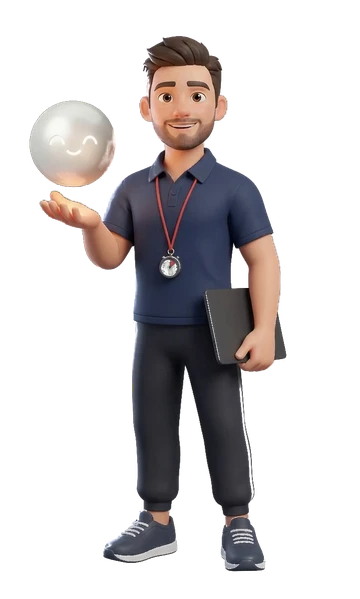
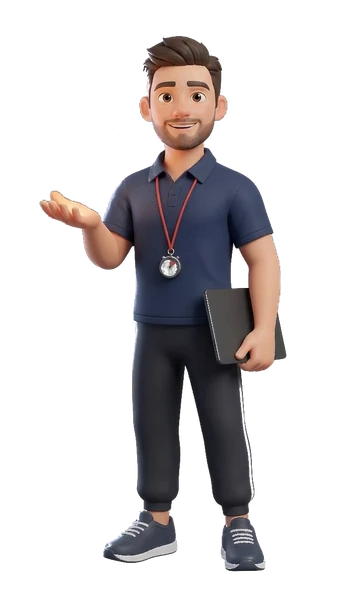
feat: Leo esce dalla pallina nel benvenuto

Changed region(s): [[0.0611, 0.1503, 0.3361, 0.3306]]

diff --git a/components/prototipo/benvenuto/LeoEsce.tsx b/components/prototipo/benvenuto/LeoEsce.tsx
@@ -1,0 +1,107 @@
+"use client";
+
+import { useEffect, useMemo, useState } from "react";
+import { motion, useReducedMotion } from "motion/react";
+import { EASE_OUT } from "@/components/ui/motion";
+import type { Passo } from "@/libs/prototipo/benvenuto";
+import { DURATA_ESCE_MS, LEO } from "./misure-leo";
+import { PallinaColorata, SlotPallina, usePallina, useDovePallina } from "./Pallina";
+import { useScena } from "./scena";
+
+// Leo esce dalla pallina (esce.webp: scintille, lampo, Leo prende colore, la pallina sale sulla sua mano),
+// poi resta in piedi nella vetrina con la pallina colorata in mano (con-pallina.webp + PallinaColorata sopra
+// quella bianca). La scena parte quando un passo chiama scena.setLeo("esce") dopo aver mandato la pallina "al centro".
+
+const ESCE = "/prototipo/coach/esce.webp";
+const FERMO = "/prototipo/coach/con-pallina.webp";
+const VOLO_MS = 950; // tempo della pallina per arrivare al centro
+
+export function LeoScena({ passo }: { passo: Passo }) {
+  const reduce = useReducedMotion();
+  const { leo, setLeo } = useScena();
+  const pallina = usePallina();
+  const dove = useDovePallina();
+  const [anim, setAnim] = useState<"attesa" | "gioca" | "fine">(leo === "fermo" ? "fine" : "attesa");
+  // indirizzo nuovo a ogni scena: la WebP animata riparte dal primo fotogramma
+  const src = useMemo(() => `${ESCE}?t=${Date.now()}`, [leo === "esce"]); // eslint-disable-line react-hooks/exhaustive-deps
+
+  // le immagini si caricano prima, così la scena parte senza attese
+  useEffect(() => {
+    for (const s of [ESCE, FERMO]) new Image().src = s;
+  }, []);
+
+  useEffect(() => {
+    if (leo === "fermo") {
+      setAnim("fine");
+      pallina.mostra({ dove: "mano" });
+      return;
+    }
+    if (leo !== "esce") return;
+    if (reduce) {
+      setLeo("fermo");
+      return;
+    }
+    const t1 = window.setTimeout(() => {
+      setAnim("gioca");
+      pallina.mostra({ dove: "nascosta" });
+    }, VOLO_MS);
+    const t2 = window.setTimeout(() => setLeo("fermo"), VOLO_MS + DURATA_ESCE_MS);
+    return () => {
+      window.clearTimeout(t1);
+      window.clearTimeout(t2);
+    };
+  }, [leo, reduce, setLeo, pallina]);
+
+  // in piedi al centro nel saluto; dal passo del marchio si sposta a destra, più piccolo, accanto al telefono
+  const largo = passo === 0 ? LEO.larghezza : 210;
+  const alto = Math.round((largo * LEO.altezza) / LEO.larghezza);
+  const inizio = LEO.pallinaInizio;
+  const fine = LEO.pallina;
+
+  if (leo === "nessuno" && dove !== "centro") return null;
+
+  return (
+    <motion.div
+      className="pointer-events-none absolute bottom-[18px]"
+      initial={false}
+      animate={{ left: passo === 0 ? "50%" : "83%", x: "-50%", width: largo, height: alto }}
+      transition={{ duration: 0.7, ease: EASE_OUT }}
+    >
+      {/* dove arriva la pallina prima che esca Leo */}
+      <SlotPallina
+        dove="centro"
+        size={Math.round(inizio.r * 2 * largo)}
+        className="absolute"
+        style={{ left: inizio.x * largo - inizio.r * largo, top: inizio.y * alto - inizio.r * largo }}
+      />
+      {anim === "gioca" && (
+        // la pallina colorata sfuma mentre parte l'animazione, che inizia con la stessa pallina (bianca) nello stesso punto
+        <motion.span
+          className="absolute z-10"
+          style={{ left: inizio.x * largo - inizio.r * largo, top: inizio.y * alto - inizio.r * largo }}
+          initial={{ opacity: 1 }}
+          animate={{ opacity: 0 }}
+          transition={{ duration: 0.45, delay: 0.1 }}
+        >
+          <PallinaColorata size={Math.round(inizio.r * 2 * largo)} />
+        </motion.span>
+      )}
+      {anim === "gioca" && (
+        // eslint-disable-next-line @next/next/no-img-element
+        <img src={src} alt="" className="leo-luce absolute inset-0 size-full select-none" draggable={false} />
+      )}
+      {anim === "fine" && (
+        <motion.div initial={{ opacity: leo === "fermo" && !reduce ? 1 : 0 }} animate={{ opacity: 1 }} className="absolute inset-0">
+          {/* eslint-disable-next-line @next/next/no-img-element */}
+          <img src={FERMO} alt="Leo, il tuo assistente" className="leo-luce absolute inset-0 size-full select-none" draggable={false} />
+          <SlotPallina
+            dove="mano"
+            size={Math.round(fine.r * 2 * largo)}
+            className="absolute"
+            style={{ left: fine.x * largo - fine.r * largo, top: fine.y * alto - fine.r * largo }}
+          />
+        </motion.div>
+      )}
+    </motion.div>
+  );
+}

diff --git a/components/prototipo/benvenuto/Benvenuto.tsx b/components/prototipo/benvenuto/Benvenuto.tsx
@@ -9,6 +9,7 @@ import { Vetrina } from "./Vetrina";
 import { PallinaProvider, SlotPallina } from "./Pallina";
 import { ScenaProvider, useScena } from "./scena";
 import { EmailFinta } from "./EmailFinta";
+import { LeoScena } from "./LeoEsce";
 import { Accesso } from "./passi/Accesso";
 import { Barra, Tasto, TestaPasso } from "./ui";
 
@@ -39,7 +40,7 @@ export function Benvenuto() {
           <div className="grid h-[min(820px,calc(100dvh-44px))] min-h-[640px] w-full max-w-[1280px] grid-cols-1 gap-[14px] rounded-[30px] bg-card p-[14px] shadow-[0_30px_70px_-40px_rgba(0,0,0,0.35)] lg:grid-cols-[46fr_54fr]">
             <div className="hidden lg:block">
               <Vetrina passo={passo}>
-                <ScenaVetrina />
+                <ScenaVetrina passo={passo} />
               </Vetrina>
             </div>
             <div className="relative flex min-h-0 flex-col">
@@ -95,10 +96,11 @@ function CambioPasso({ chiave, children }: { chiave: number; children: ReactNode
 }
 
 // Quello che i passi mettono in primo piano nella vetrina.
-function ScenaVetrina() {
+function ScenaVetrina({ passo }: { passo: Passo }) {
   const { email } = useScena();
   return (
     <>
+      <LeoScena passo={passo} />
       <SlotPallina dove="vetrina" size={72} className="absolute left-[46%] top-[63%]" />
       <EmailFinta codice={email} />
     </>

diff --git a/components/prototipo/benvenuto/passi/Accesso.tsx b/components/prototipo/benvenuto/passi/Accesso.tsx
@@ -65,6 +65,9 @@ export function Accesso({ avanti }: PropsPasso) {
     timer.current = window.setTimeout(() => {
       scena.setEmail(null);
       setFase("saluto");
+      // la pallina va al centro della vetrina e da lì esce Leo
+      pallina.mostra({ dove: "centro" });
+      scena.setLeo("esce");
     }, 1500);
   };
 
@@ -196,19 +199,25 @@ function Regola({ ok, children }: { ok: boolean; children: string }) {
 }
 
 function Saluto({ avanti }: { avanti: () => void }) {
+  const { leo } = useScena();
   return (
     <div>
       <TestaPasso titolo={`Benvenuto, ${NOME}!`} sotto="Sono Leo, il tuo assistente. In 2 minuti prepariamo insieme l'app che riceveranno i tuoi clienti." />
-      <Entra i={3} className="mt-[28px]">
-        <Tasto
-          onClick={() => {
-            playSound("confirm");
-            avanti();
-          }}
-        >
-          Iniziamo
-        </Tasto>
-      </Entra>
+      {/* "Iniziamo" arriva quando Leo è uscito dalla pallina */}
+      <div className="mt-[28px] h-[48px]">
+        {leo === "fermo" && (
+          <Entra>
+            <Tasto
+              onClick={() => {
+                playSound("confirm");
+                avanti();
+              }}
+            >
+              Iniziamo
+            </Tasto>
+          </Entra>
+        )}
+      </div>
     </div>
   );
 }

diff --git a/components/prototipo/benvenuto/Vetrina.tsx b/components/prototipo/benvenuto/Vetrina.tsx
@@ -6,6 +6,7 @@ import { CalendarClock, Wallet } from "lucide-react";
 import { EASE_OUT, formatEuro } from "@/components/ui/motion";
 import { revenue, trainer } from "@/libs/prototipo/dati-finti";
 import { useBenvenuto, type Passo } from "@/libs/prototipo/benvenuto";
+import { useScena } from "./scena";
 
 // Metà sinistra del benvenuto: la vetrina del trainer. Gradiente caldo nel suo colore con macchie sfumate
 // che si muovono piano, e sopra le schede in vetro della sua app che fluttuano (come nel riferimento
@@ -22,8 +23,9 @@ const NOTIFICHE = [
 
 export function Vetrina({ passo, children }: { passo: Passo; children?: ReactNode }) {
   const b = useBenvenuto();
-  // dal passo del marchio in poi al centro c'è il telefono: le schede si fanno da parte
-  const lato = passo >= 1;
+  // quando esce Leo, e dal passo del marchio in poi (telefono al centro), le schede si fanno da parte
+  const { leo } = useScena();
+  const lato = passo >= 1 || leo !== "nessuno";
   return (
     <div className="relative h-full overflow-hidden rounded-[22px]" style={{ background: `linear-gradient(180deg, ${tinta(10)} 0%, ${tinta(28)} 48%, ${tinta(58)} 100%)` }}>
       <Macchie />

diff --git a/components/prototipo/benvenuto/Pallina.tsx b/components/prototipo/benvenuto/Pallina.tsx
@@ -1,6 +1,6 @@
 "use client";
 
-import { createContext, ReactNode, useCallback, useContext, useMemo, useRef, useState } from "react";
+import { createContext, CSSProperties, ReactNode, useCallback, useContext, useMemo, useRef, useState } from "react";
 import { AnimatePresence, motion, useReducedMotion } from "motion/react";
 
 // La pallina di Leo, la mascotte del benvenuto (come la sfera del riferimento animazione-login.mp4):
@@ -83,7 +83,7 @@ export function PallinaColorata({ size }: { size: number }) {
 }
 
 // Segnaposto: la pallina compare qui quando il suo "dove" coincide. size = diametro in quel posto.
-export function SlotPallina({ dove, size, className, style }: { dove: DovePallina; size: number; className?: string; style?: React.CSSProperties }) {
+export function SlotPallina({ dove, size, className, style }: { dove: DovePallina; size: number; className?: string; style?: CSSProperties }) {
   const { stato } = useContesto();
   const reduce = useReducedMotion();
   const qui = stato.dove === dove;

diff --git a/components/prototipo/benvenuto/misure-leo.ts b/components/prototipo/benvenuto/misure-leo.ts
@@ -7,9 +7,9 @@ export const LEO = {
   larghezza: 360,
   altezza: 599,
   // primo fotogramma: la pallina da sola, prima che esca Leo
-  pallinaInizio: { x: 0.4931, y: 0.4366, r: 0.147 },
+  pallinaInizio: { x: 0.502, y: 0.4332, r: 0.15 },
   // ultimo fotogramma (= con-pallina.webp): la pallina sopra la mano aperta
-  pallina: { x: 0.1931, y: 0.2304, r: 0.1097 },
+  pallina: { x: 0.1972, y: 0.2396, r: 0.114 },
 };
 
 // 72 fotogrammi a 20 al secondo
